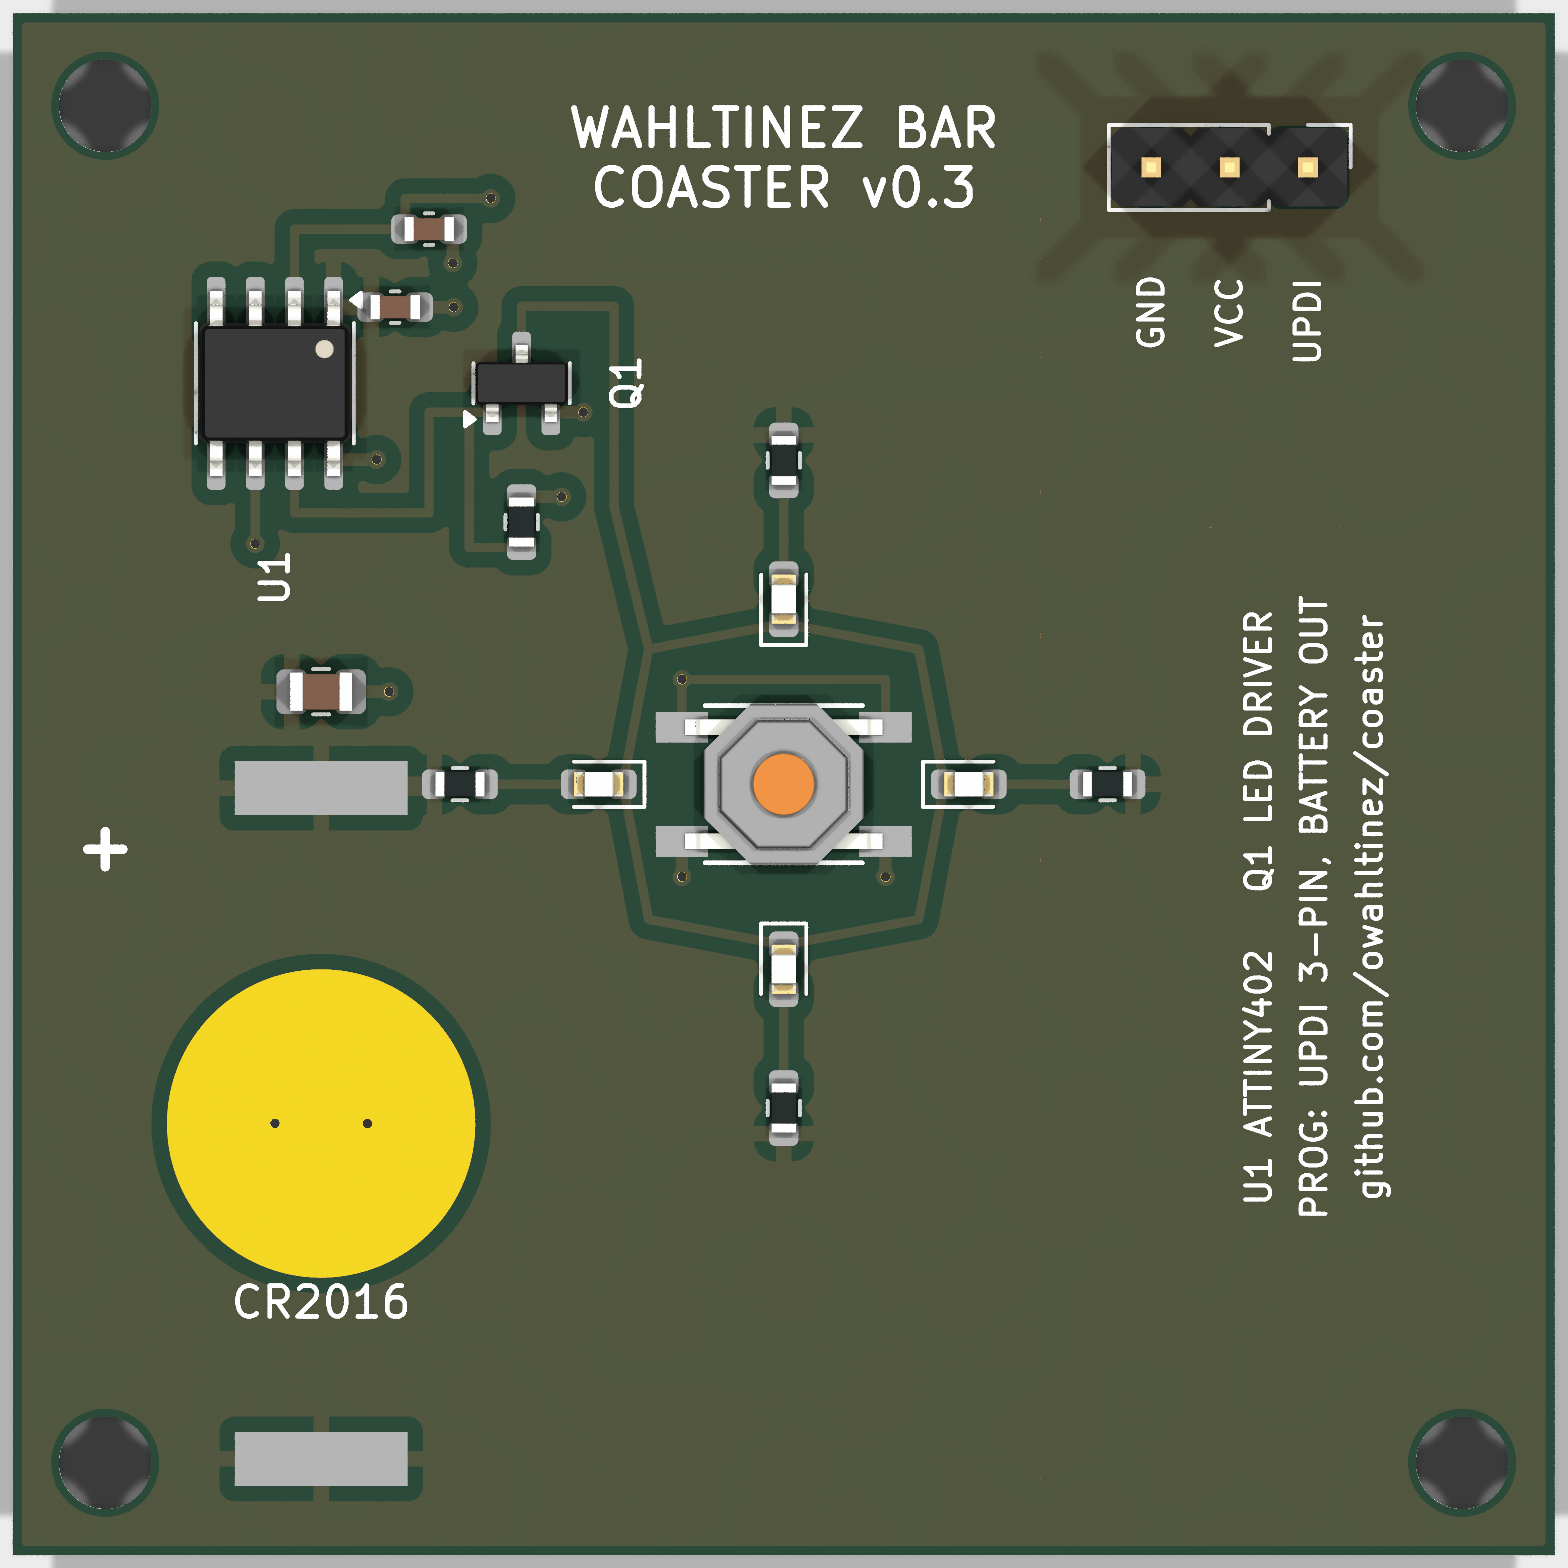
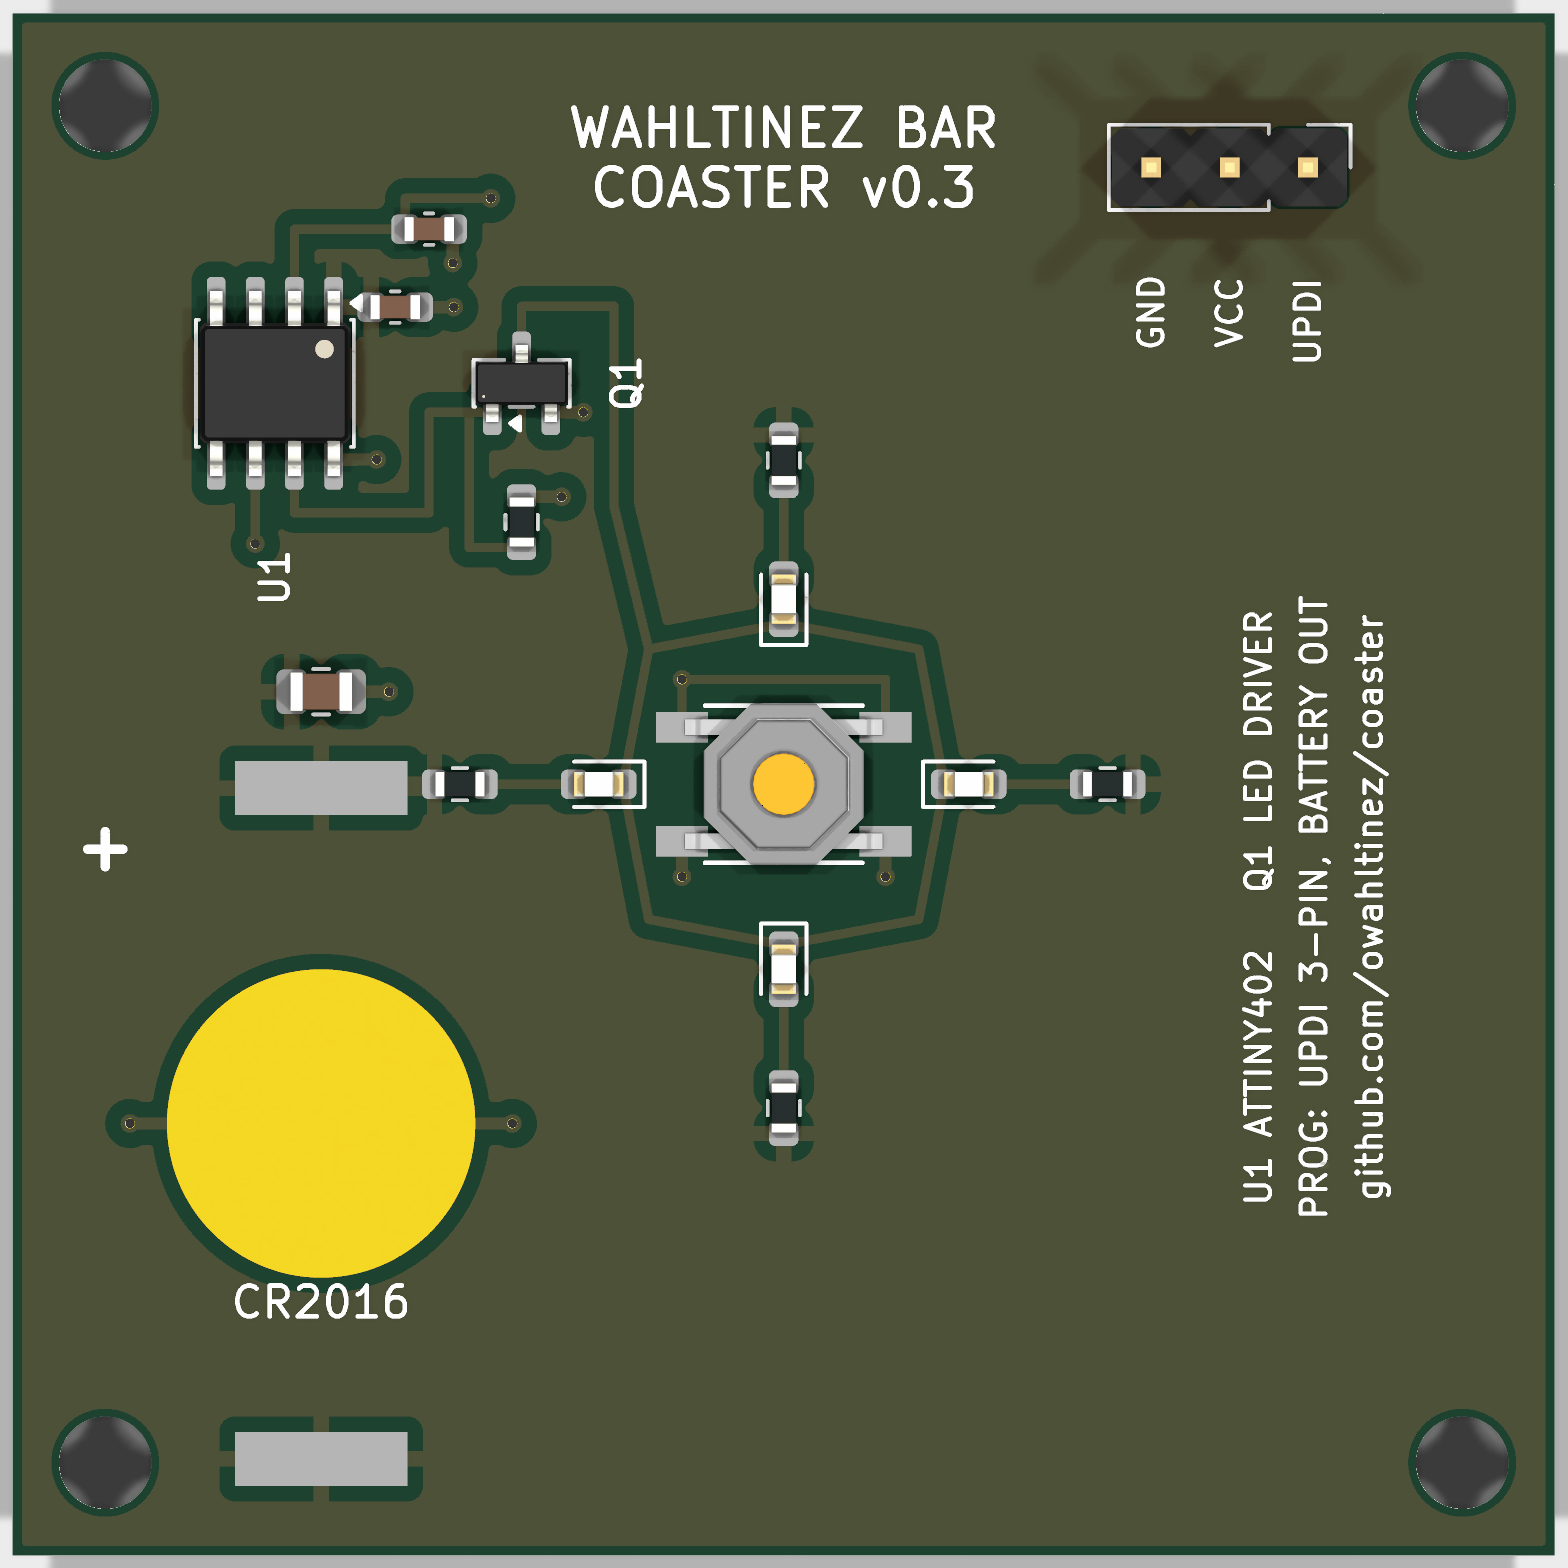
Move battery-return vias out of the cell contact pad
The CR2016 presses directly on BT1 pad 2 (bare copper, mask-defined),
and the two GND stitching vias sat inside that 10mm contact circle --
drill dimples and flux right at the contact surface risk an
intermittent battery connection that presents as random resets. The
vias now sit just outside the circle, fed by short spokes from the pad
center.

diff --git a/pcb/generate.py b/pcb/generate.py
@@ -162,8 +162,15 @@ def build_board():
         via("GND", vx, vy)
     track("GND", [(28.3, 26.85), (28.3, 28.0)], 0.4)
     via("GND", 28.3, 28.0)
-    via("GND", 8.5, 36.0)
-    via("GND", 11.5, 36.0)
+
+    # Battery return: the cell presses directly on BT1 pad 2 (bare copper), so
+    # the stitching vias stay outside the 10mm contact circle -- drill dimples
+    # or flux inside it would sit right at the contact surface. Spokes run from
+    # the pad center out past the circle to vias into the B.Cu pour.
+    bt = pad_pos("BT1", "2")
+    for vx in (3.8, 16.2):
+        track("GND", [bt, (vx, bt[1])], 0.4)
+        via("GND", vx, bt[1])
 
     # Silkscreen: hide passive refdes (assembly uses the CPL file), keep U1/Q1,
     # label the programming pads, and run the documentation down the right margin.